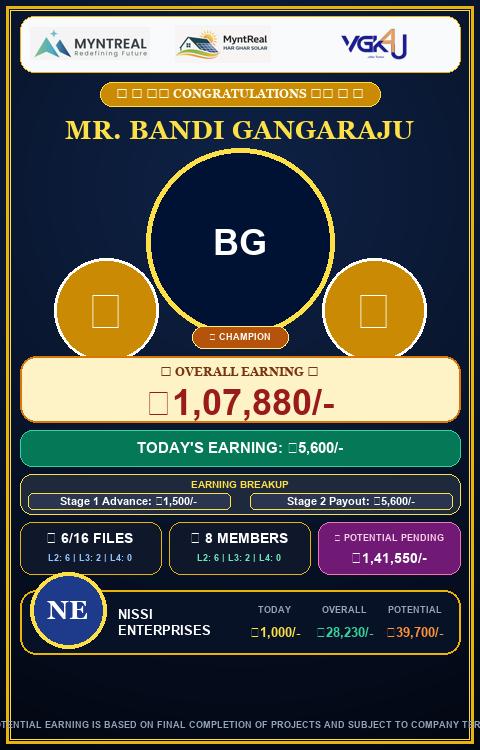
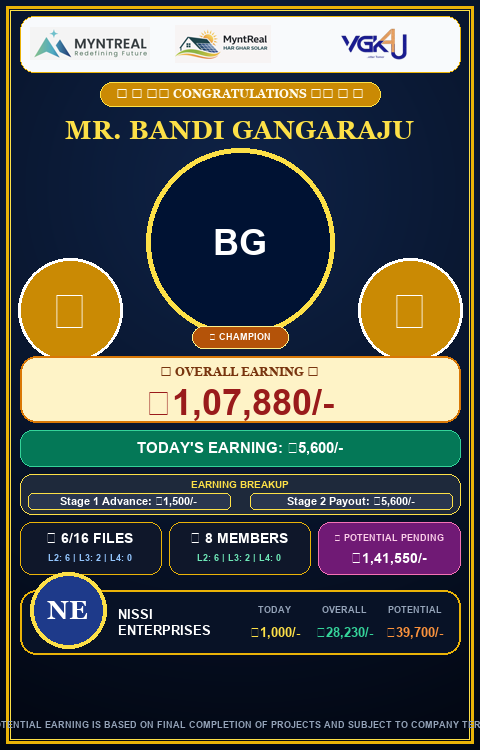
fix(poster): add null guards to changeThemePreset/changeCustomColors and move trophies completely outside photo circle

Changed region(s): [[0.0312, 0.3373, 0.3438, 0.4907], [0.6562, 0.3373, 0.9688, 0.4907]]

diff --git a/MyntReal_Latest/frontend/staff_vgk_members.html b/MyntReal_Latest/frontend/staff_vgk_members.html
@@ -6194,7 +6194,7 @@ function updatePoster() {
 }
 
 function changeThemePreset() {
-  const preset = document.getElementById('postThemePreset').value;
+  const preset = document.getElementById('postThemePreset')?.value || 'celebration_graphic';
   const customColorsDiv = document.getElementById('customColorsContainer');
   const canvas = document.getElementById('posterCanvasWrapper');
   
@@ -6223,14 +6223,14 @@ function changeThemePreset() {
   } else if (preset === 'custom') {
     if (canvas) { canvas.style.backgroundImage = "none"; }
     if (customColorsDiv) customColorsDiv.style.display = 'flex';
-    bg = document.getElementById('postColorBg').value;
-    cardBg = document.getElementById('postColorCard').value;
-    text = document.getElementById('postColorText').value;
-    accent = document.getElementById('postColorAccent').value;
-    border = document.getElementById('postColorBorder').value;
+    bg = document.getElementById('postColorBg')?.value || '#000c28';
+    cardBg = document.getElementById('postColorCard')?.value || '#001744';
+    text = document.getElementById('postColorText')?.value || '#F8FAFC';
+    accent = document.getElementById('postColorAccent')?.value || '#fbbf24';
+    border = document.getElementById('postColorBorder')?.value || '#d4af37';
   }
   
-  // Update picker input values
+  // Update picker input values safely
   if (document.getElementById('postColorBg')) document.getElementById('postColorBg').value = bg;
   if (document.getElementById('postColorCard')) document.getElementById('postColorCard').value = cardBg;
   if (document.getElementById('postColorText')) document.getElementById('postColorText').value = text;
@@ -6241,11 +6241,11 @@ function changeThemePreset() {
 }
 
 function changeCustomColors() {
-  const bg = document.getElementById('postColorBg').value;
-  const cardBg = document.getElementById('postColorCard').value;
-  const text = document.getElementById('postColorText').value;
-  const accent = document.getElementById('postColorAccent').value;
-  const border = document.getElementById('postColorBorder').value;
+  const bg = document.getElementById('postColorBg')?.value || '#000c28';
+  const cardBg = document.getElementById('postColorCard')?.value || '#001744';
+  const text = document.getElementById('postColorText')?.value || '#F8FAFC';
+  const accent = document.getElementById('postColorAccent')?.value || '#fbbf24';
+  const border = document.getElementById('postColorBorder')?.value || '#d4af37';
   applyThemeColors(bg, cardBg, text, accent, border);
 }
 
@@ -7304,16 +7304,16 @@ function _renderCommDetailTable(partnerId) {
             <!-- 4. Member Profile Photo inside Golden Wreath Ring with Lower-Positioned 104px Dual Champion Trophies (Right Above Overall Earning Block) -->
             <div style="position:relative;width:188px;height:188px;margin-bottom:10px">
               
-              <!-- Left Side 3D Champion Trophy Badge (104px x 104px) - Lowered Right Above Overall Earning Block -->
-              <div style="position:absolute;bottom:-14px;left:-82px;background:radial-gradient(circle,#fffbeb,#fde047 35%,#b45309 100%);border:3.5px solid #ffffff;border-radius:50%;width:104px;height:104px;display:flex;align-items:center;justify-content:center;box-shadow:0 8px 24px rgba(0,0,0,0.85), 0 0 32px rgba(251,191,36,0.95);font-size:56px;z-index:10">🏆</div>
+              <!-- Left Side 3D Champion Trophy Badge (104px x 104px) - Moved Completely Outside Photo Circle -->
+              <div style="position:absolute;bottom:-14px;left:-118px;background:radial-gradient(circle,#fffbeb,#fde047 35%,#b45309 100%);border:3.5px solid #ffffff;border-radius:50%;width:104px;height:104px;display:flex;align-items:center;justify-content:center;box-shadow:0 8px 24px rgba(0,0,0,0.85), 0 0 32px rgba(251,191,36,0.95);font-size:56px;z-index:10">🏆</div>
 
               <div style="width:188px;height:188px;border-radius:50%;border:5px solid #fde047;overflow:hidden;background:#001233;box-shadow:0 0 45px rgba(234,179,8,0.9);display:flex;align-items:center;justify-content:center">
                 <img id="prevImg" src="" crossorigin="anonymous" style="width:100%;height:100%;object-fit:cover;object-position:center 20%;display:none">
                 <div id="prevAvatar" style="width:100%;height:100%;display:flex;align-items:center;justify-content:center;background:linear-gradient(135deg,#1d4ed8,#7c3aed);color:white;font-size:58px;font-weight:900">BG</div>
               </div>
 
-              <!-- Right Side 3D Champion Trophy Badge (104px x 104px) - Lowered Right Above Overall Earning Block -->
-              <div style="position:absolute;bottom:-14px;right:-82px;background:radial-gradient(circle,#fffbeb,#fde047 35%,#b45309 100%);border:3.5px solid #ffffff;border-radius:50%;width:104px;height:104px;display:flex;align-items:center;justify-content:center;box-shadow:0 8px 24px rgba(0,0,0,0.85), 0 0 32px rgba(251,191,36,0.95);font-size:56px;z-index:10">🏆</div>
+              <!-- Right Side 3D Champion Trophy Badge (104px x 104px) - Moved Completely Outside Photo Circle -->
+              <div style="position:absolute;bottom:-14px;right:-118px;background:radial-gradient(circle,#fffbeb,#fde047 35%,#b45309 100%);border:3.5px solid #ffffff;border-radius:50%;width:104px;height:104px;display:flex;align-items:center;justify-content:center;box-shadow:0 8px 24px rgba(0,0,0,0.85), 0 0 32px rgba(251,191,36,0.95);font-size:56px;z-index:10">🏆</div>
 
               <!-- Champion Pill at Bottom -->
               <div style="position:absolute;bottom:-7px;left:50%;transform:translateX(-50%);background:linear-gradient(135deg,#b45309,#f59e0b,#b45309);border:1px solid #fef08a;color:#ffffff;font-size:9.5px;font-weight:900;padding:2.5px 16px;border-radius:12px;letter-spacing:1.2px;white-space:nowrap;box-shadow:0 3px 10px rgba(0,0,0,0.6);z-index:11">🏆 CHAMPION</div>
